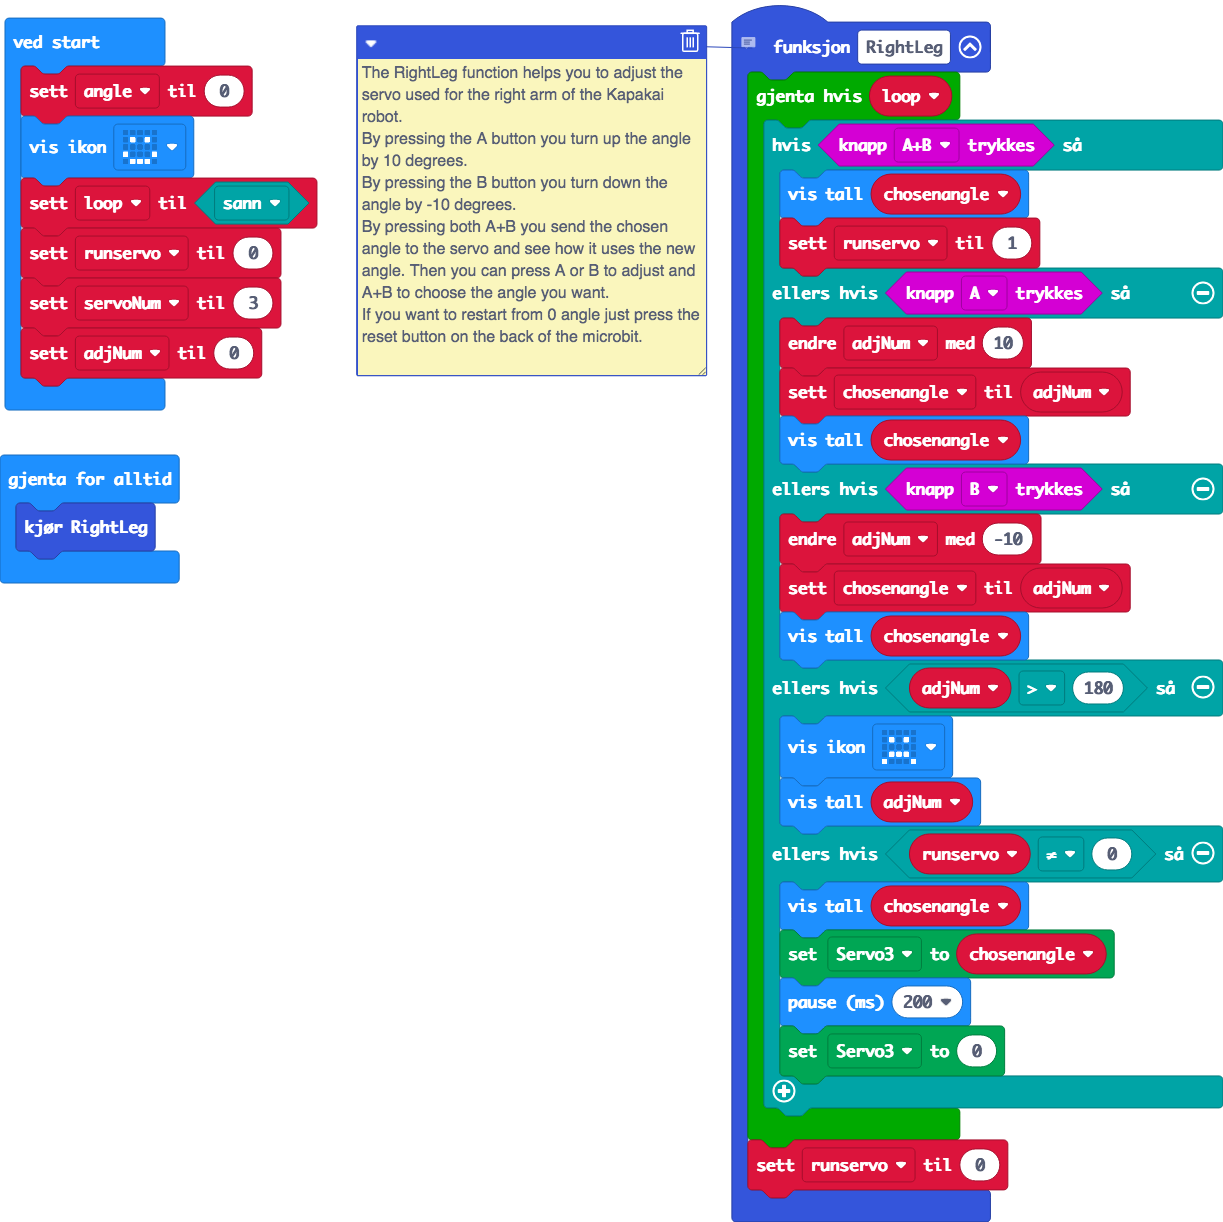
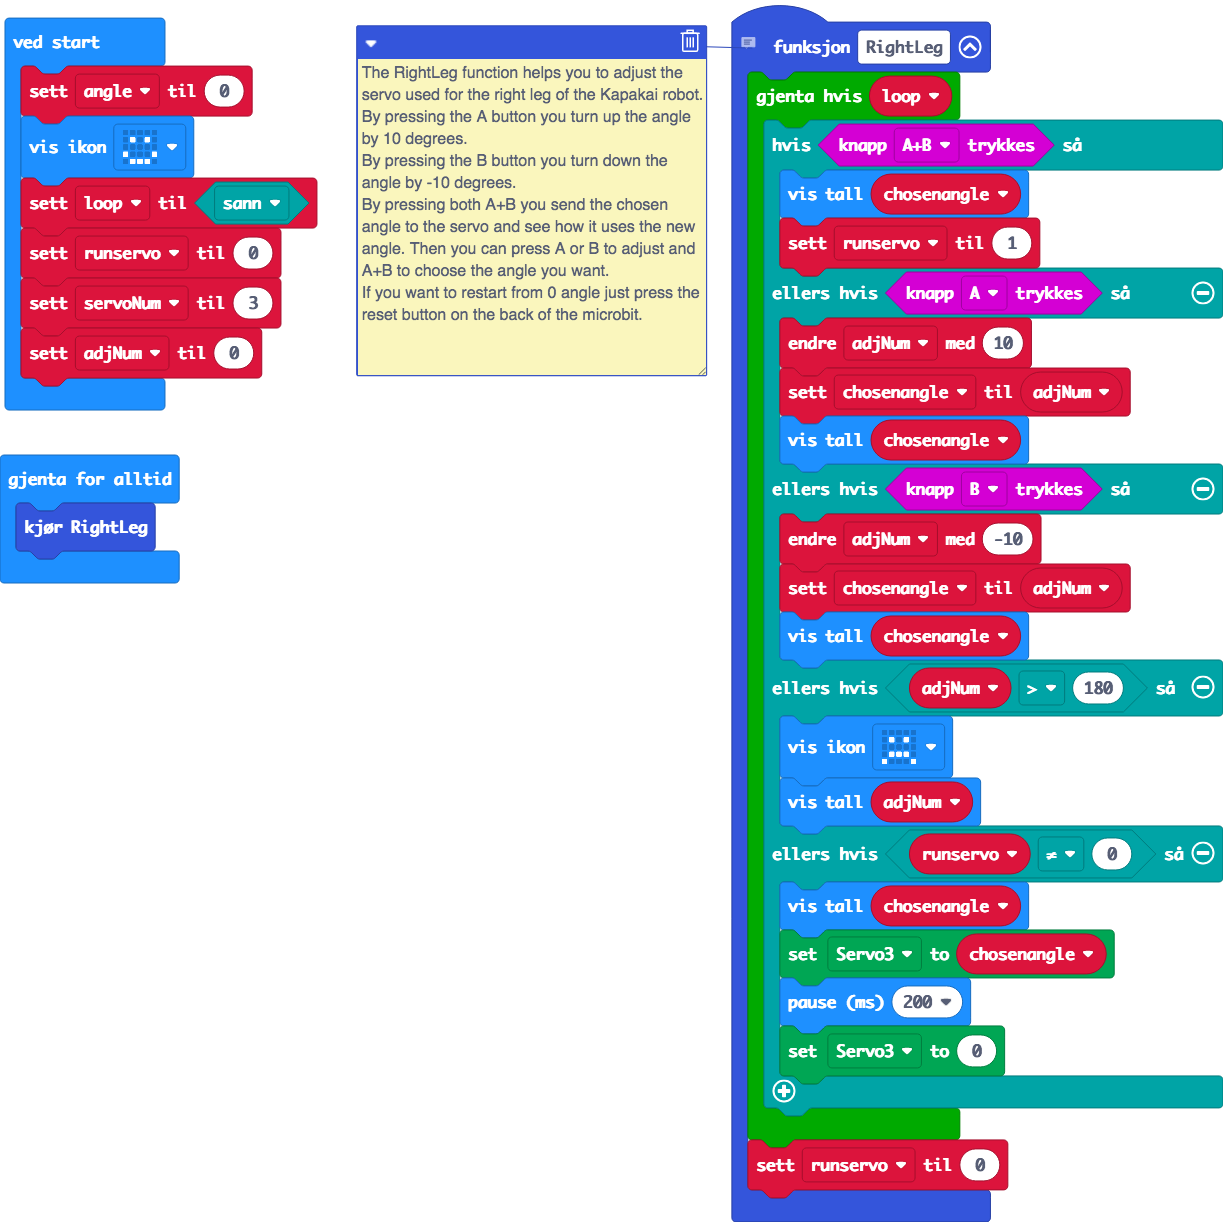
Oppdater main.blocks, main.ts

Changed region(s): [[0.2796, 0.0622, 0.5904, 0.2799]]

diff --git a/main.ts b/main.ts
@@ -1,4 +1,4 @@
-// The RightLeg function helps you to adjust the servo used for the right arm of the Kapakai robot.
+// The RightLeg function helps you to adjust the servo used for the right leg of the Kapakai robot.
 // By pressing the A button you turn up the angle by 10 degrees.
 // By pressing the B button you turn down the angle by -10 degrees.
 // By pressing both A+B you send the chosen angle to the servo and see how it uses the new angle. Then you can press A or B to adjust and A+B to choose the angle you want.
